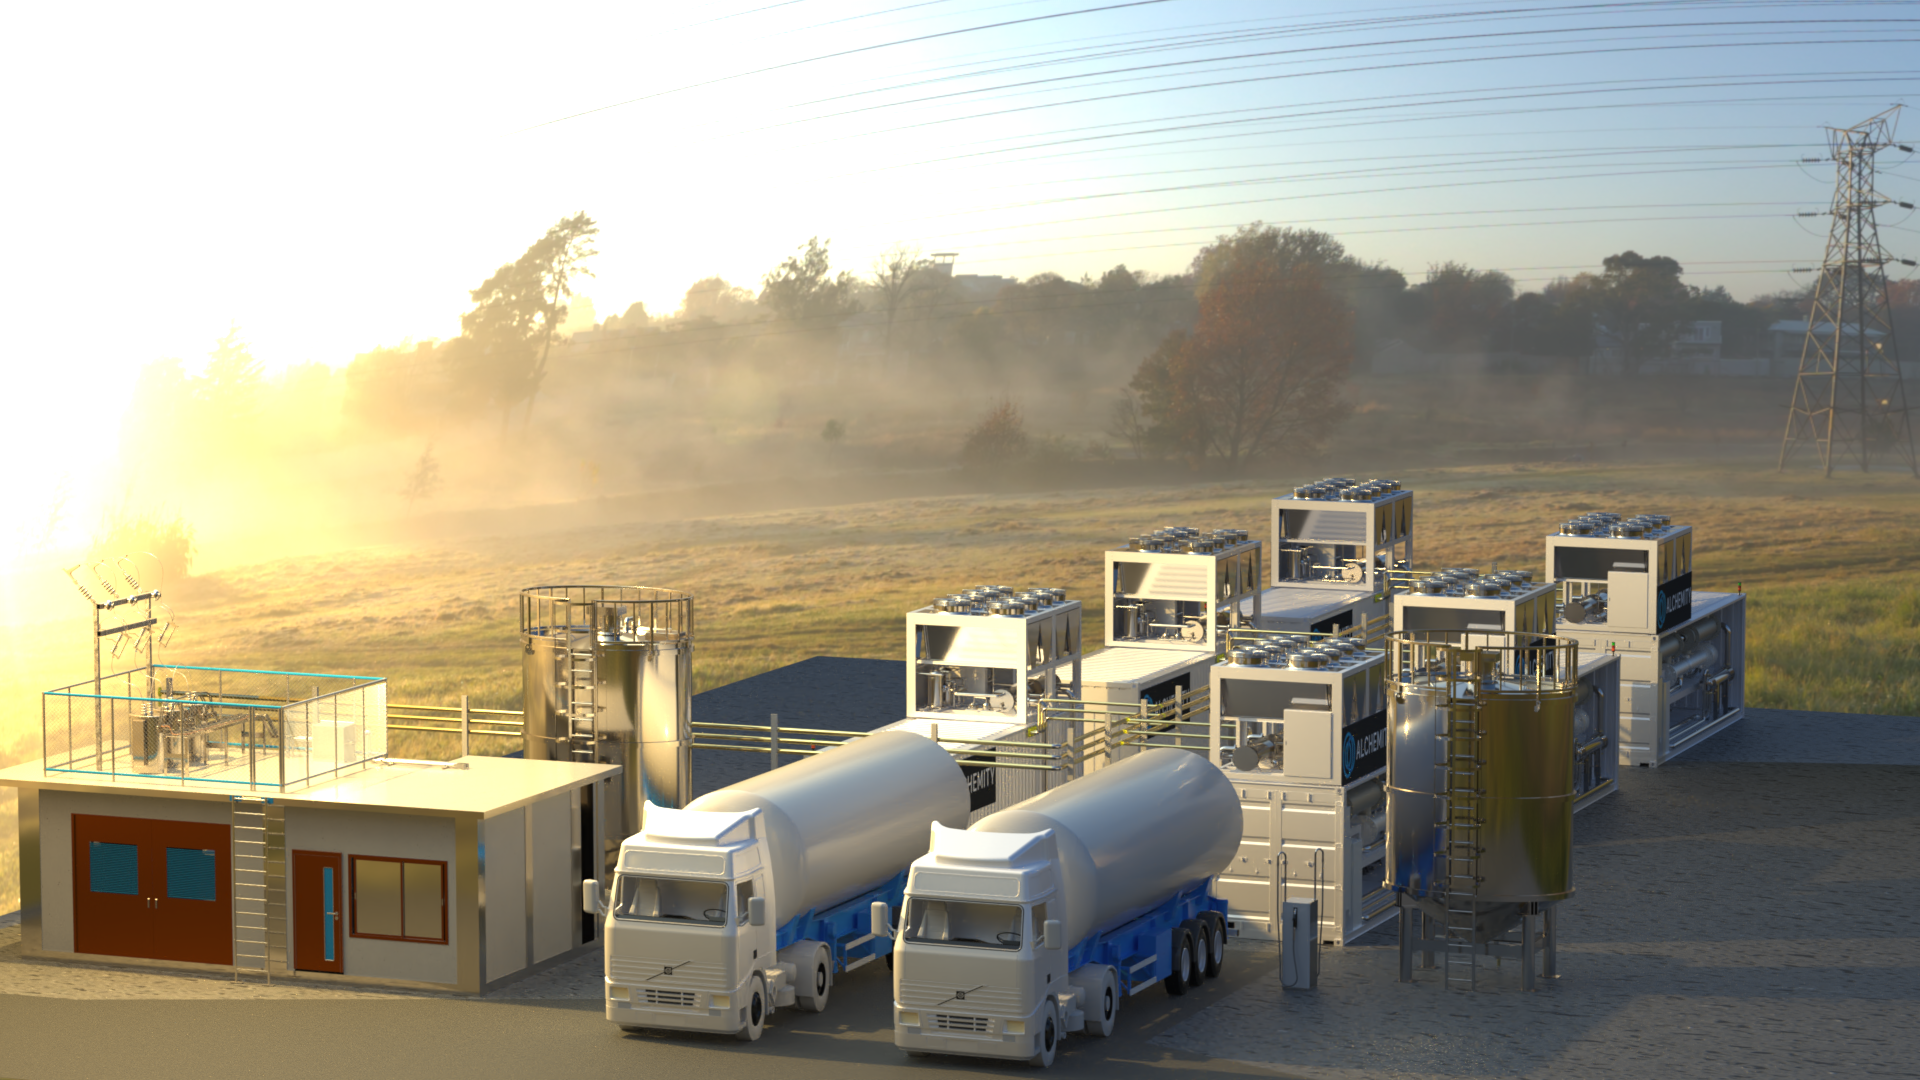
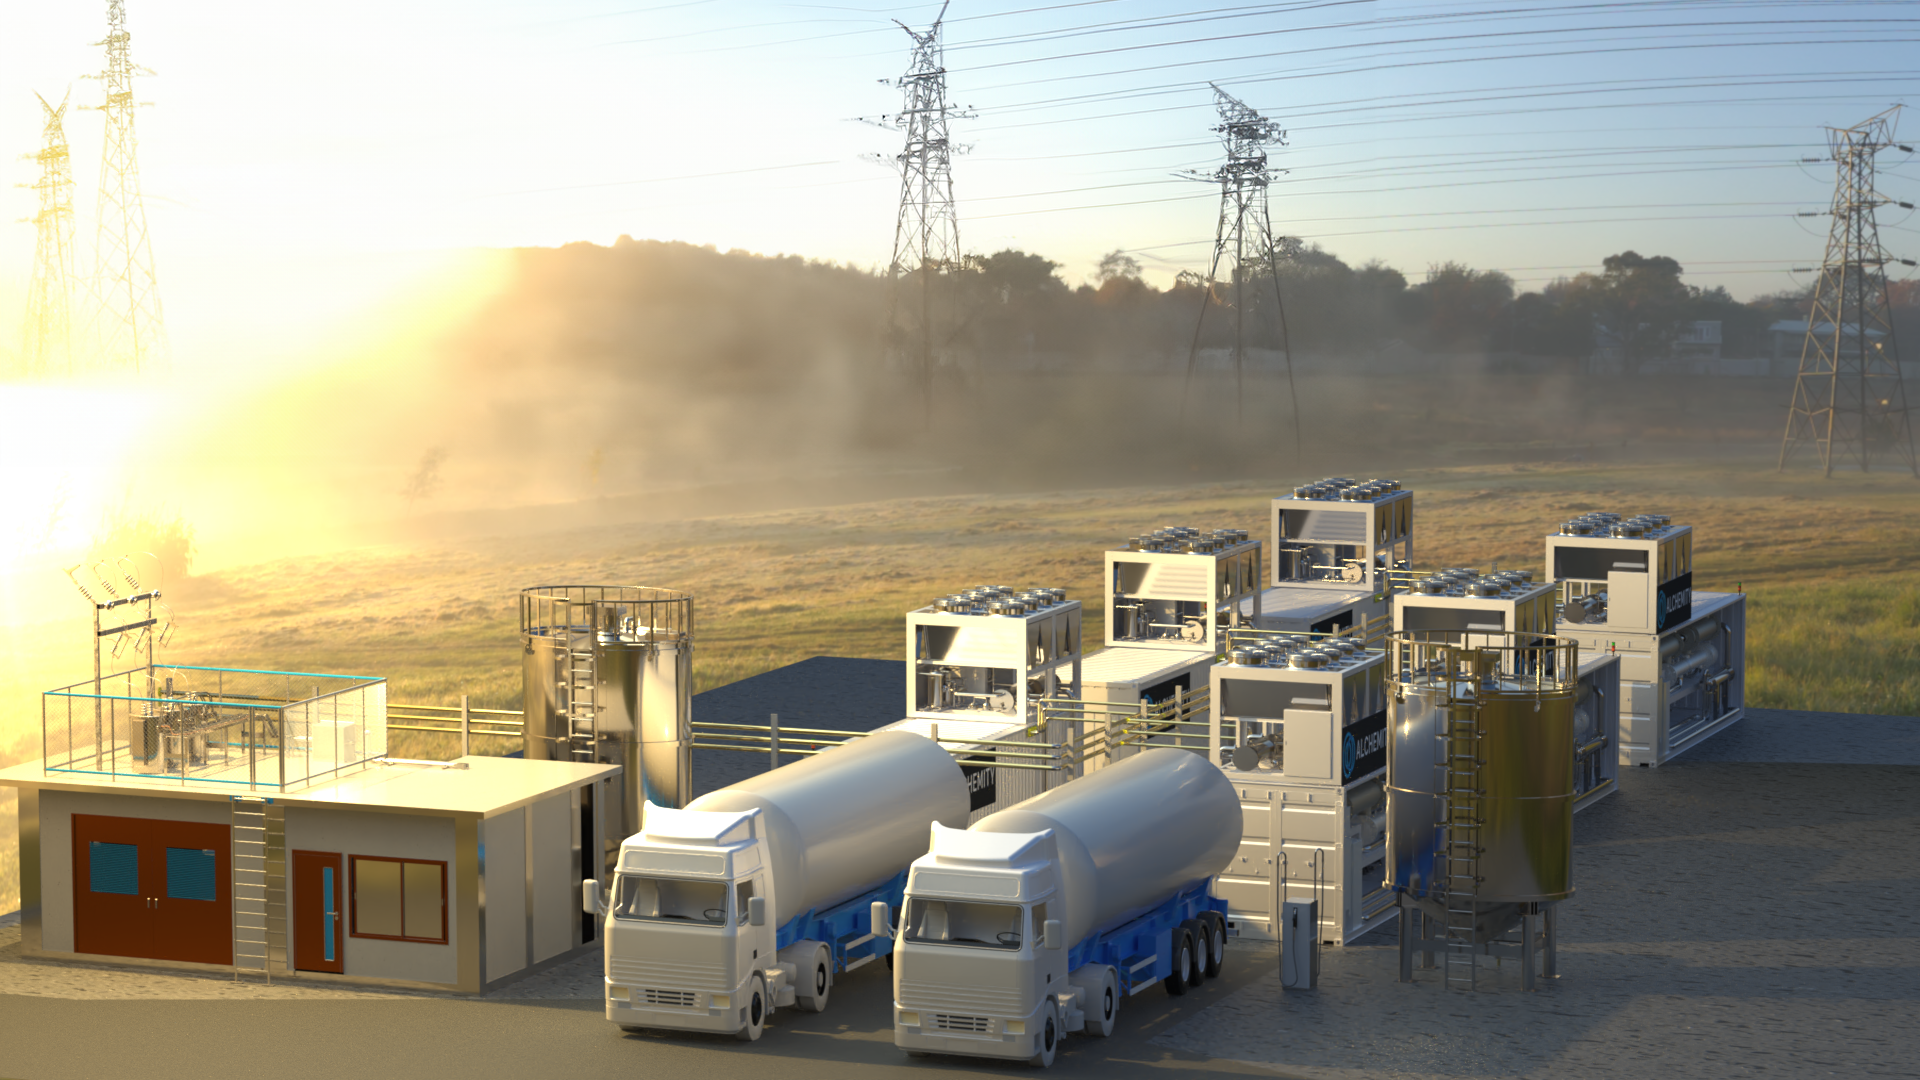
updated renders

Changed region(s): [[0.0, 0.0, 0.7188, 0.4278]]

diff --git a/src/pages/Products.js b/src/pages/Products.js
@@ -7,7 +7,7 @@ import single1 from '../components/images/single1.png';
 import single2 from '../components/images/single2.png';
 import bundle1 from '../components/images/bundle1.png';
 import bundle2 from '../components/images/bundle2.png';
-import benchtop1 from '../components/images/benchtop1.png';
+import benchtop1 from '../components/images/benchtop1_new.png';
 import benchtop2 from '../components/images/benchtop2.png';
 import skid1 from '../components/images/skid1_new.png';
 import skid2 from '../components/images/skid2_new.png';
